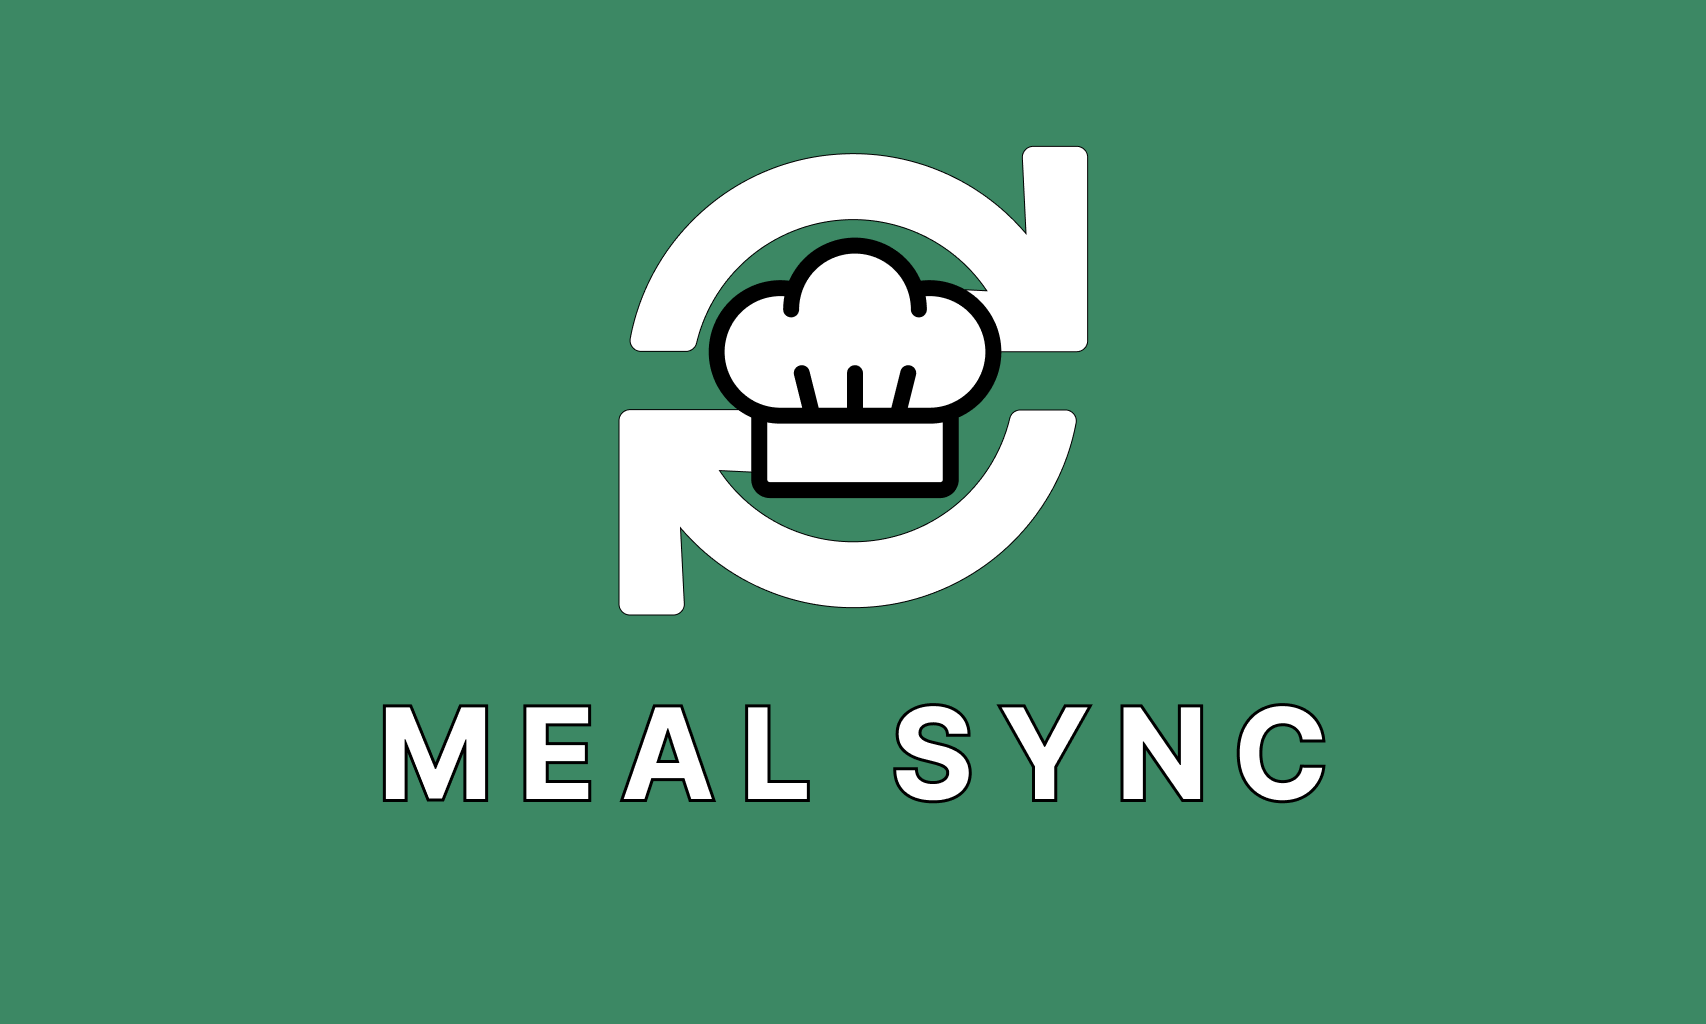
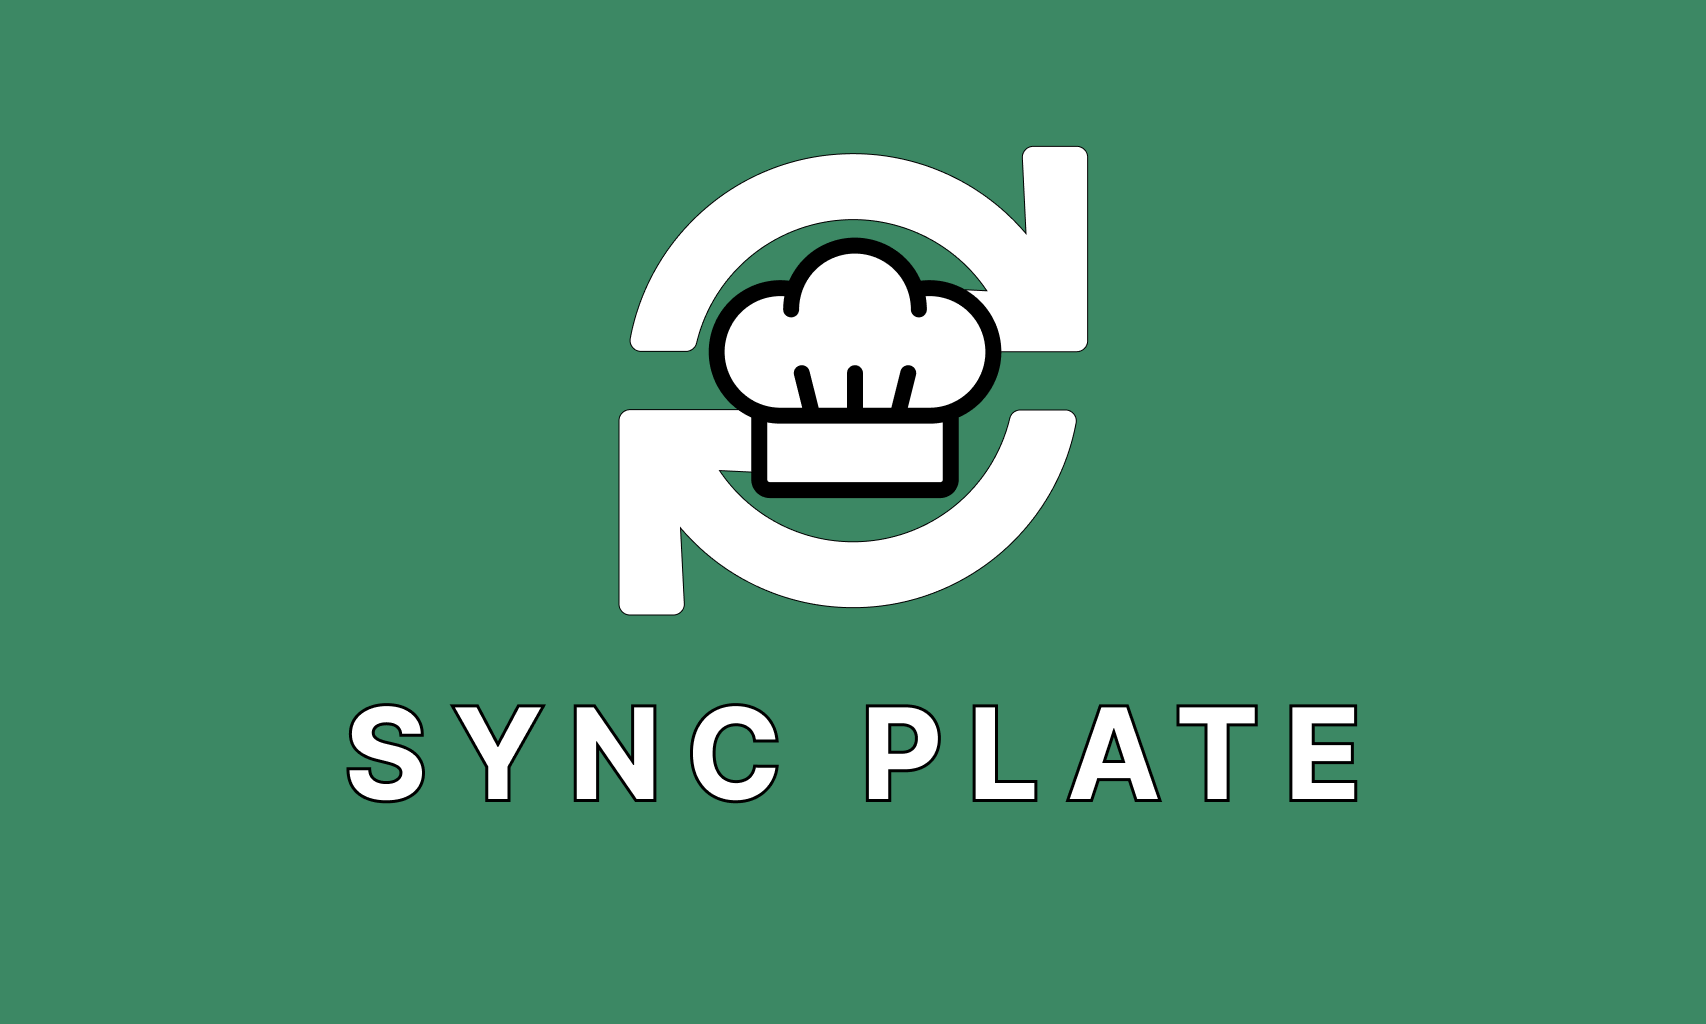
change syncplate cover photo

Changed region(s): [[0.1864, 0.6875, 0.8077, 0.7812]]

diff --git a/src/app/(Home)/projects.tsx b/src/app/(Home)/projects.tsx
@@ -3,7 +3,7 @@
 import { useMemo, useState } from "react";
 import KBUi from "./(projects)/KBUi";
 import Javadoc from "./(projects)/javadoc";
-import SyncPlate from "./(projects)/meal_sync";
+import SyncPlate from "./(projects)/syncplate";
 import LibertyBrew from "./(projects)/liberty_brew_coffee";
 import PinehurstLodge from "./(projects)/pinehurst_lodge";
 import DnDEngine from "./(projects)/dndengine";
@@ -12,7 +12,7 @@ export default () => {
     let projects = [
         
         {
-            id:"meal_sync",
+            id:"syncplate",
             title: "SyncPlate",
             subtitle: "An all-in-one meal planning solution",
             img:"/project_covers/syncplate/cover.png",
@@ -53,7 +53,7 @@ export default () => {
             description: <Javadoc />
         },
     ]
-    let [selectedProjectID, setSelectedProjectID] = useState<string>("meal_sync")
+    let [selectedProjectID, setSelectedProjectID] = useState<string>("syncplate")
     let selectedProject = useMemo(() => projects.filter(p => p.id == selectedProjectID)[0], [selectedProjectID])
     const isSelected = (project:{id:string}) => {
         return project.id == selectedProjectID;
